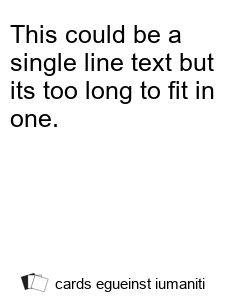
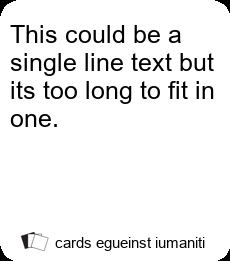
Cambios para mejorar usabiliad

diff --git a/create_white_card.py b/create_white_card.py
@@ -1,14 +1,27 @@
 from PIL import Image, ImageDraw, ImageFont
 
-def create_card(size, bg, txtc):
+def create_card(size, bg, txtc, bottom_t):
 
     img = Image.new('RGB', size, color = bg)
 
     fnt = ImageFont.truetype('arial.ttf', 15)
     d = ImageDraw.Draw(img)
-    d.text((55,275), "cards egueinst iumaniti", font=fnt, fill=txtc)
+    d.text((55,234), bottom_t, font=fnt, fill=txtc)
 
     return img
+
+def add_black_corners(im, rad):
+    circle = Image.new('L', (rad * 2, rad * 2), 0)
+    draw = ImageDraw.Draw(circle)
+    draw.ellipse((0, 0, rad * 2, rad * 2), fill=255)
+    alpha = Image.new('L', im.size, "white")
+    w, h = im.size
+    im.paste(circle.crop((0, 0, rad, rad)), (0, 0))
+    im.paste(circle.crop((0, rad, rad, rad * 2)), (0, h - rad))
+    im.paste(circle.crop((rad, 0, rad * 2, rad)), (w - rad, 0))
+    im.paste(circle.crop((rad, rad, rad * 2, rad * 2)), (w - rad, h - rad))
+
+    return im
 
 def add_corners(im, rad):
     circle = Image.new('L', (rad * 2, rad * 2), 0)
@@ -21,28 +34,47 @@ def add_corners(im, rad):
     alpha.paste(circle.crop((rad, 0, rad * 2, rad)), (w - rad, 0))
     alpha.paste(circle.crop((rad, rad, rad * 2, rad * 2)), (w - rad, h - rad))
     im.putalpha(alpha)
+
     return im
 
 def add_bottom_logo(img):
 
-    offset = (20, 270)
+    offset = (20, 229)
     logo = Image.open('Logo.png')
     logo.thumbnail((30,30))
     img.paste(logo, offset, mask=logo)
 
     return img
 
+def create_white(size, rad, bg, text, bottom_t):
+
+    img = create_card(size, bg, text, bottom_t)
+    img = add_black_corners(img, rad)
+    img = add_bottom_logo(img)
+
+    # img.save('white_card.png')
+    return img
+
+def create_black(size, rad, bg, text, bottom_t):
+
+    img = create_card(size, bg, text, bottom_t)
+    img = add_corners(img, rad)
+    img = add_bottom_logo(img)
+
+    # img.save('black_card.png')
+    return img
 
 
 if __name__ == '__main__':
 
-    size = (230, 302)
-    white = (255, 255, 255)
-    black = (0, 0, 0)
-    rad = 20
+    size = (230, 261)
+    bottom_t = 'cards egueinst iumaniti'
+    # white = 255
+    # black = 0
+    # rad = 20
 
-    img = create_card(size, black, white)
-    img = add_corners(img, rad)
-    img = add_bottom_logo(img)
+    black_c = create_black(size, 20, "black", "white", bottom_t)
+    white_c = create_white(size, 20, "white", "black", bottom_t)
 
-    img.save('black_card.png')
+    black_c.save('black_card.png')
+    white_c.save('white_card.png')

diff --git a/draw_mtext.py b/draw_mtext.py
@@ -50,15 +50,13 @@ def get_line_height(ft):
 
     return line_height
 
-
-
 if __name__ == '__main__':
 
     font = ImageFont.truetype('arial.ttf', 25)
     text = "This could be a single line text but its too long to fit in one."
-    color = (255, 255, 255)
+    color = "black"
 
-    img = Image.open("black_card.png")
+    img = Image.open("white_card.png")
     image_size = img.size
 
     lines = text_wrap(text, font, image_size[0])
@@ -69,6 +67,7 @@ if __name__ == '__main__':
     y = 20
 
     for line in lines:
+        print(line)
         draw.text((x, y), line, fill=color, font=font)
         y = y + line_height
-    img.save('black_card_mline.png', optimize=True)
+    img.save('white_card_mline.png', optimize=True)
